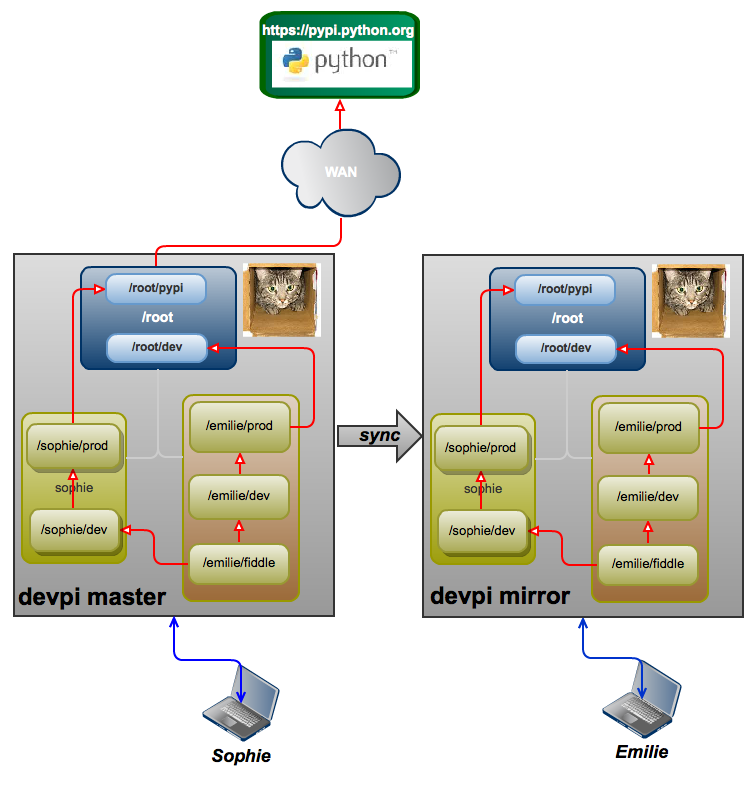
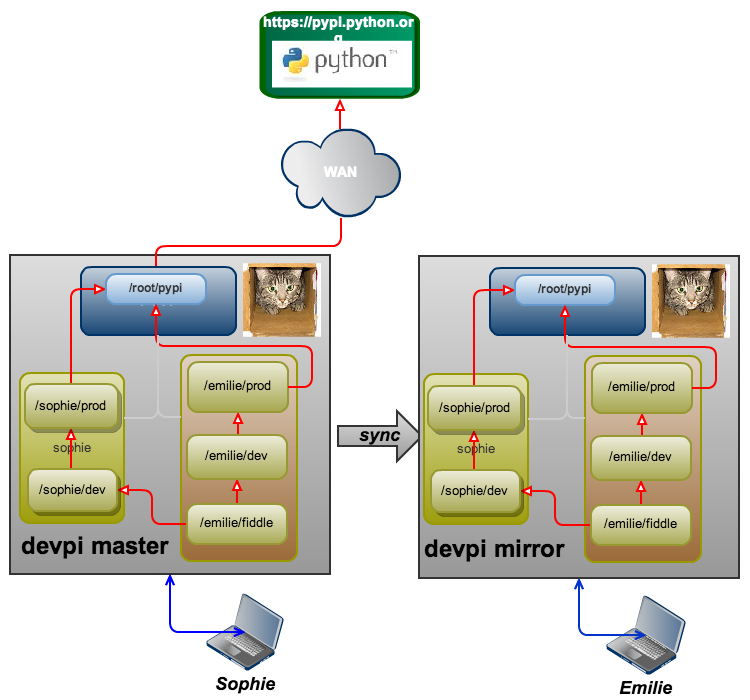
User Manual: References to /root/dev since it is no longer supported. Updated the diagram accordingly

diff --git a/doc/userman/devpi_packages.rst b/doc/userman/devpi_packages.rst
@@ -1,7 +1,7 @@
 .. _label_userman_devpi_install_chapter:
 
 Uploading, testing and pushing packages
-=========================================
+=======================================
 
 .. include:: ../links.rst
 
@@ -12,7 +12,7 @@ Uploading, testing and pushing packages
     https://pypi.python.org.
 
 XXX Overview
---------------
+------------
 
 As explained in the :ref:`label_userman_concepts_chapter` chapter, the **/root/pypi** is a special cache to 
 http://python.pypi.org. 
@@ -23,14 +23,11 @@ using a user index (**/emilie/dev**) which has the following inheritance tree::
       /root/pypi
           ^
           |
-      /root/dev
-          ^
-          |
       /emilie/dev
       
       
 XXX Creating a virtual environment
------------------------------------
+----------------------------------
 
 This step is presented here to simply create a sandbox using `virtualenv`_::
 

diff --git a/doc/userman/devpi_misc.rst b/doc/userman/devpi_misc.rst
@@ -121,7 +121,7 @@ If you have a directory with existing package files::
     devpi upload --from-dir PATH/TO/DIR
 
 will recursively collect all archives files, register
-and upload them to our local ``root/dev`` pypi index.
+and upload them to our local ``testuser/dev`` pypi index.
 
 Using plain ``setup.py`` for uploading
 --------------------------------------
@@ -152,7 +152,7 @@ If you now use ``testuser/dev`` for installation like this::
     pip install -i http://localhost:3141/testuser/dev/+simple/ PKGNAME
 
 You will install your package including any pypi-dependencies 
-it might need, because the ``root/dev`` index inherits all
+it might need, because the ``testuser/dev`` index inherits all
 packages from the pypi-mirroring ``root/pypi`` index.
 
 .. note::

diff --git a/doc/userman/devpi_user.rst b/doc/userman/devpi_user.rst
@@ -22,8 +22,8 @@ But before that, users must indicate to the devpi client which server to use::
    using server: http://localhost:3141/ (not logged in)
    no current index: type 'devpi use -l' to discover indices
 
-In this case, we do not make use of a particular index [#f1]_. We could however
-use the default **root/pypi** index [#f2]_.
+In this case, we do not make use of a particular index. We could however
+use the default **root/pypi** index [#f1]_.
 
 The **root/pypi** index is a read only cache of http://python.pypi.org  
 
@@ -137,7 +137,6 @@ credentials::
 
 .. rubric:: Footnotes
 
-.. [#f1] Once logged in, the index will default to /root/dev 
-.. [#f2] This is a workaround.
+.. [#f1] This is a workaround.
     
 
